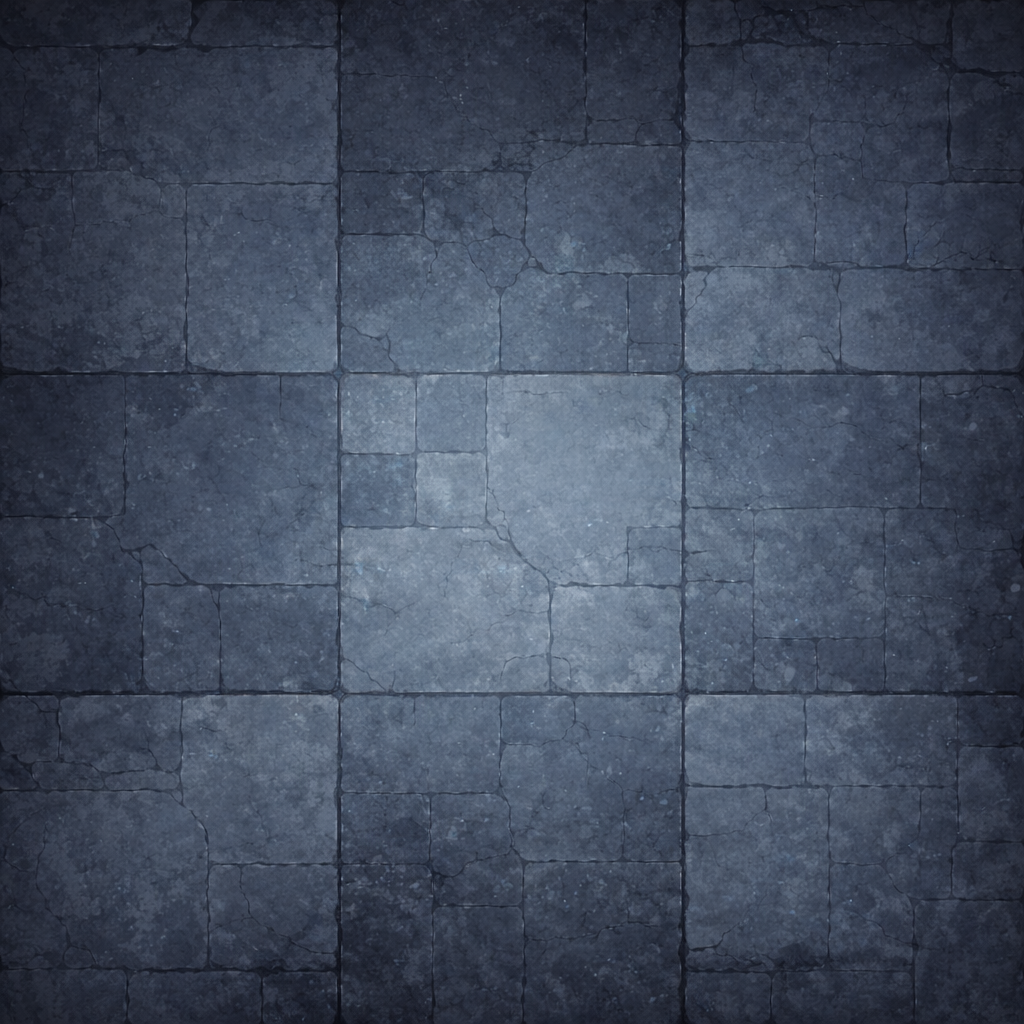
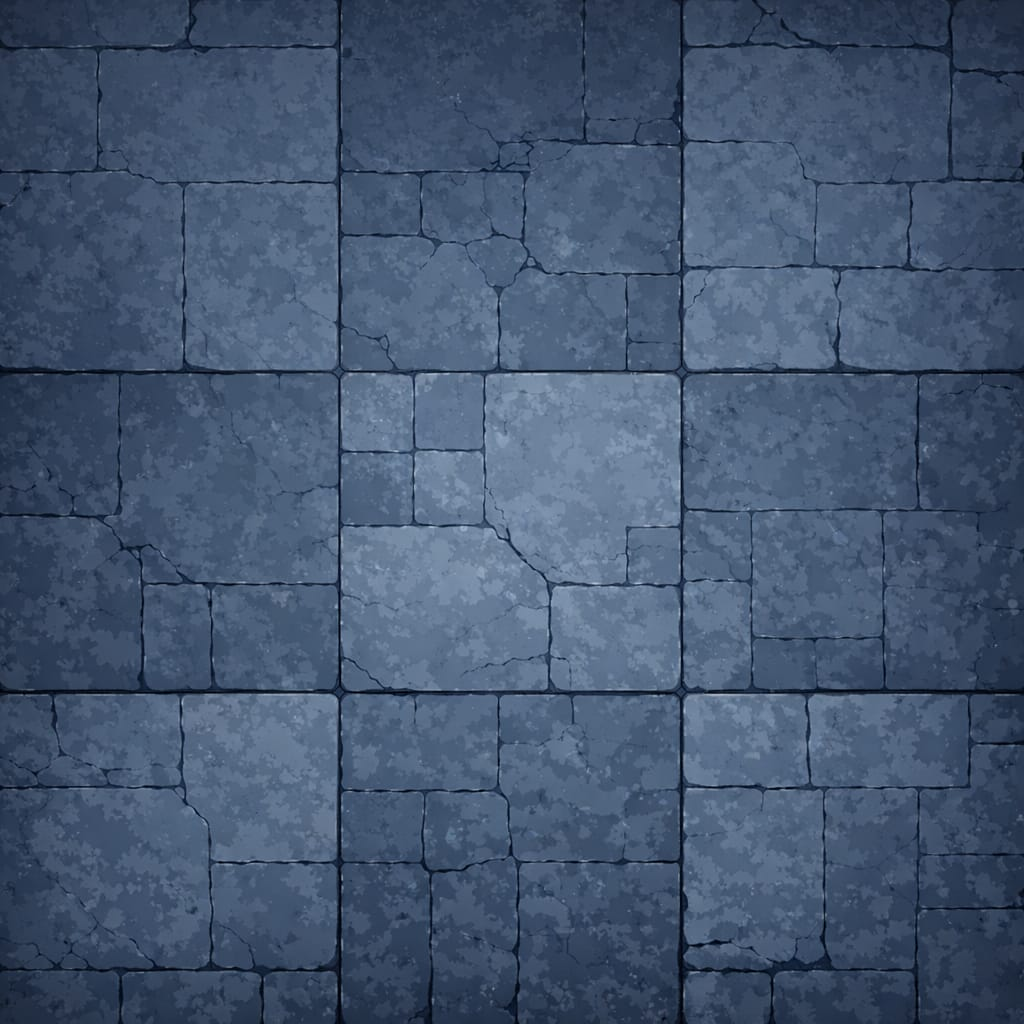
Refinamento dos biomas e sprites de gelo/lava e melhorias no rendering

diff --git a/src/game/renderer.ts b/src/game/renderer.ts
@@ -49,9 +49,12 @@ export function renderViewportMargins(ctx: CanvasRenderingContext2D, time: numbe
   // 2. PARALLAX LAYER 2 (Furthest)
   ctx.fillStyle = biome.bgLayer1;
   const p2x = (-gox * 0.2) % 400;
-  const p2y = (-goy * 0.2) % 400;
 
-  for (let i = -1; i < Math.ceil(rw / 400) + 1; i++) {
+  // Safe bounds for parallax tiles
+  const startI = -1;
+  const endI = Math.ceil(rw / 400) + 1;
+
+  for (let i = startI; i < endI; i++) {
     const x = i * 400 + p2x - gox;
     if (biome.theme === 'crystal') {
       // Sharp ice stalagmite silhouettes — NOT water, but frozen spires
@@ -83,13 +86,22 @@ export function renderViewportMargins(ctx: CanvasRenderingContext2D, time: numbe
 
   // 3. PARALLAX LAYER 1 (Walls / Pillars)
   const ts = C.TILE_SIZE;
+  if (ts <= 0) return; // Prevent infinite loop if constants are corrupted
+
   const startCol = Math.floor(-gox / ts) - 1;
   const endCol = Math.ceil((rw - gox) / ts) + 1;
   const startRow = Math.floor(-goy / ts) - 1;
   const endRow = Math.ceil((rh - goy) / ts) + 1;
 
-  for (let row = startRow; row < endRow; row++) {
-    for (let col = startCol; col < endCol; col++) {
+  // Final safety clamp for loops
+  const safeStartCol = Math.max(-100, startCol);
+  const safeEndCol = Math.min(C.dims.rc + 100, endCol);
+  const safeStartRow = Math.max(-50, startRow);
+  const safeEndRow = Math.min(C.dims.rr + 50, endRow);
+
+  for (let row = safeStartRow; row < safeEndRow; row++) {
+    for (let col = safeStartCol; col < safeEndCol; col++) {
+      // Skip the main arena area
       if (row >= 0 && row < C.dims.rr && col >= 0 && col < C.dims.rc) continue;
 
       const x = col * ts;
@@ -182,54 +194,55 @@ export function renderFloor(ctx: CanvasRenderingContext2D, time: number, floor =
   const biome = getBiome(floor);
   const ts = C.TILE_SIZE;
 
-  // ── Tile sets by Biome ──────────────────────────────────────────
+  // ── Tile sets by Biome (Uso dos novos chãos gerados) ──────────
   let tileSet: HTMLImageElement[] = [];
 
   if (biome.theme === 'crystal') {
     tileSet = [
-      getFloorTile('/title-de-gelo.png'),
-      getFloorTile('/title-de-gelo-2.png'),
-      getFloorTile('/title-de-gelo-3.png') // This is actually ice tile 3
+      getFloorTile('/tile-glacial-floor.png'),
+      getFloorTile('/tile-glacial-1.png'),
+      getFloorTile('/tile-glacial-2.png')
     ];
   } else if (biome.theme === 'volcano') {
-    tileSet = [getFloorTile('/title-de-lava.png')];
+    tileSet = [getFloorTile('/tile-lava-floor.png')];
   } else if (biome.theme === 'forest') {
     tileSet = [
-      getFloorTile('/title-de-planta.png')
+      getFloorTile('/tile-archives-floor.png'),
+      getFloorTile('/tile-archives-1.png')
     ];
   } else {
-    // Default fallback set
-    tileSet = [getFloorTile('/title-de-gelo.png')];
+    tileSet = [getFloorTile('/tile-glacial-floor.png')];
   }
 
-  // --- Disable image smoothing for crisp pixel-art appearance ---
+  // --- Desativar suavização para garantir pixel-art nítido ---
   ctx.imageSmoothingEnabled = false;
 
+  const rr = Math.min(100, C.dims.rr);
+  const rc = Math.min(100, C.dims.rc);
 
-  for (let row = 0; row < C.dims.rr; row++) {
-    for (let col = 0; col < C.dims.rc; col++) {
+  if (rr <= 0 || rc <= 0) return;
+
+  for (let row = 0; row < rr; row++) {
+    for (let col = 0; col < rc; col++) {
       const x = col * ts;
       const y = row * ts;
-      const isEdge = row === 0 || row === C.dims.rr - 1 || col === 0 || col === C.dims.rc - 1;
+      const isEdge = row === 0 || row === rr - 1 || col === 0 || col === rc - 1;
 
       if (isEdge) {
-        // ── WALLS ─────────────────────────────────────────────
+        // ── PAREDES ───────────────────────────────────────────
         ctx.fillStyle = biome.wall;
         ctx.fillRect(x, y, ts, ts);
 
-        // Top wall architectural face
         if (row === 0) {
           ctx.fillStyle = biome.wallTop;
           ctx.fillRect(x, y, ts, 12);
           ctx.fillStyle = 'rgba(255, 255, 255, 0.08)';
           ctx.fillRect(x, y, ts, 1);
-          // Wall detail accent line
           ctx.fillStyle = biome.accentGlow.replace(/[\d.]+\)$/, '0.12)');
           ctx.fillRect(x, y + 11, ts, 1);
         }
 
-        // Bottom wall — baseboard shadow
-        if (row === C.dims.rr - 1) {
+        if (row === rr - 1) {
           const bounce = ctx.createLinearGradient(x, y + ts - 6, x, y + ts);
           bounce.addColorStop(0, 'rgba(0,0,0,0)');
           bounce.addColorStop(1, 'rgba(0,0,0,0.35)');
@@ -237,100 +250,50 @@ export function renderFloor(ctx: CanvasRenderingContext2D, time: number, floor =
           ctx.fillRect(x, y + ts - 6, ts, 6);
         }
 
-        // Side walls — subtle depth shading
-        if (col === 0 || col === C.dims.rc - 1) {
+        if (col === 0 || col === rc - 1) {
           ctx.fillStyle = 'rgba(0,0,0,0.2)';
           ctx.fillRect(x, y, ts, ts);
         }
 
       } else {
-        // ── FLOOR TILES (Direct Sprite Rendering @ 32px) ──────
-        // Seamless high-quality tiles from public folder
+        // ── CHÃO (Renderização Direta @ 32px) ─────────────────
         const hash = (col * 17 + row * 31 + col * row * 7) % 700;
-
-        // 1) Pick tile from the biome set
         const tileIdx = hash % tileSet.length;
         const tile = tileSet[tileIdx];
 
-        // 2) Direct Base — Draw sprite with full 100% visibility
         if (tile.complete && tile.naturalWidth > 0) {
-          ctx.save();
-          // Subtle procedural brightness variation (0.97 to 1.03)
-          const brightness = 0.97 + (hash % 7) * 0.01;
-          ctx.filter = `brightness(${brightness})`;
-
-          ctx.globalAlpha = 1.0;
-          ctx.drawImage(tile, x, y, ts, ts); // ts is now 32px
-          ctx.restore();
+          // Renderização mais fiel possível, sem filtros de brilho ou ruído artificial
+          ctx.drawImage(tile, x, y, ts, ts);
         } else {
-          // Fallback while loading
           ctx.fillStyle = biome.floor;
           ctx.fillRect(x, y, ts, ts);
-        }
-
-        // 3) Micro-noise variation — breaks up the checkerboard feel
-        if (hash % 3 === 0) {
-          ctx.fillStyle = hash % 6 === 0
-            ? 'rgba(255,255,255,0.012)'
-            : 'rgba(0,0,0,0.015)';
-          ctx.fillRect(x, y, ts, ts);
-        }
-
-        // 4) Biome overlays ─────────────────────────────────────
-        // Volcano: animated lava crack
-        if (biome.theme === 'volcano' && hash % 17 === 0) {
-          const glow = Math.sin(time * 3 + hash) * 0.5 + 0.5;
-          ctx.save();
-          ctx.globalAlpha = 0.45;
-          ctx.shadowBlur = 3 * glow;
-          ctx.shadowColor = '#ff3300';
-          ctx.strokeStyle = `rgba(255, 70, 0, ${0.25 + glow * 0.3})`;
-          ctx.lineWidth = 1;
-          ctx.beginPath();
-          ctx.moveTo(x + 2, y + 4);
-          ctx.lineTo(x + ts - 3, y + ts - 3);
-          ctx.stroke();
-          ctx.restore();
-        }
-
-        // Forest: subtle fallen leaf
-        if (biome.theme === 'forest' && hash % 13 === 0) {
-          ctx.save();
-          ctx.globalAlpha = 0.18;
-          ctx.fillStyle = hash % 3 === 0 ? '#1a3a1a' : '#2a5a27';
-          ctx.beginPath();
-          ctx.ellipse(x + ts / 2, y + ts / 2, 4, 2, Math.PI / 4, 0, Math.PI * 2);
-          ctx.fill();
-          ctx.restore();
         }
       }
     }
   }
 
-  // ── ROW SHADOW (top wall casting down onto floor) ──────────
+  // ── SOMBRA DA PAREDE SUPERIOR ──────────────────────
   const shadowGrad = ctx.createLinearGradient(0, ts, 0, ts * 3);
-  shadowGrad.addColorStop(0, 'rgba(0,0,0,0.30)');
+  shadowGrad.addColorStop(0, 'rgba(0,0,0,0.25)'); // Sombra suave fidedigna
   shadowGrad.addColorStop(1, 'rgba(0,0,0,0.00)');
   ctx.fillStyle = shadowGrad;
   ctx.fillRect(ts, ts, C.dims.gw - ts * 2, ts * 2);
 
-  // ── TORCHES ────────────────────────────────────────────────
+  // ── TOCHAS ────────────────────────────────────────────────
   const torchPositions: { x: number; y: number }[] = [];
-  for (let col = 4; col < C.dims.rc; col += 8) {
-    torchPositions.push({ x: col * C.TILE_SIZE, y: C.TILE_SIZE });
-    torchPositions.push({ x: col * C.TILE_SIZE, y: C.dims.gh - C.TILE_SIZE });
+  for (let tcol = 4; tcol < rc; tcol += 8) {
+    torchPositions.push({ x: tcol * ts, y: ts });
+    torchPositions.push({ x: tcol * ts, y: C.dims.gh - ts });
   }
-  for (let row = 5; row < C.dims.rr; row += 5) {
-    torchPositions.push({ x: C.TILE_SIZE, y: row * C.TILE_SIZE });
-    torchPositions.push({ x: C.dims.gw - C.TILE_SIZE, y: row * C.TILE_SIZE });
+  for (let trow = 5; trow < rr; trow += 5) {
+    torchPositions.push({ x: ts, y: trow * ts });
+    torchPositions.push({ x: C.dims.gw - ts, y: trow * ts });
   }
 
   const flicker = Math.sin(time * 8) * 0.1 + 0.9;
   for (let ti = 0; ti < torchPositions.length; ti++) {
     const t = torchPositions[ti];
     const localFlicker = flicker * (1 + Math.sin(time * 10 + ti) * 0.1);
-
-    // Glow pool on floor
     const glowR = 70;
     const floorGlow = ctx.createRadialGradient(t.x, t.y, 0, t.x, t.y, glowR);
     const glowIntensity = (0.1 + 0.08 * localFlicker).toFixed(3);
@@ -339,7 +302,6 @@ export function renderFloor(ctx: CanvasRenderingContext2D, time: number, floor =
     ctx.fillStyle = floorGlow;
     ctx.fillRect(t.x - glowR, t.y - glowR, glowR * 2, glowR * 2);
 
-    // Procedural flame
     ctx.fillStyle = biome.accent;
     ctx.shadowBlur = 10;
     ctx.shadowColor = biome.accent;
@@ -349,7 +311,6 @@ export function renderFloor(ctx: CanvasRenderingContext2D, time: number, floor =
     ctx.quadraticCurveTo(t.x + fSway, t.y - 10, t.x + fSway * 0.2, t.y);
     ctx.fill();
     ctx.shadowBlur = 0;
-    // Handle
     ctx.fillStyle = biome.wallDetail;
     ctx.fillRect(t.x - 1, t.y - 2, 2, 10);
   }
